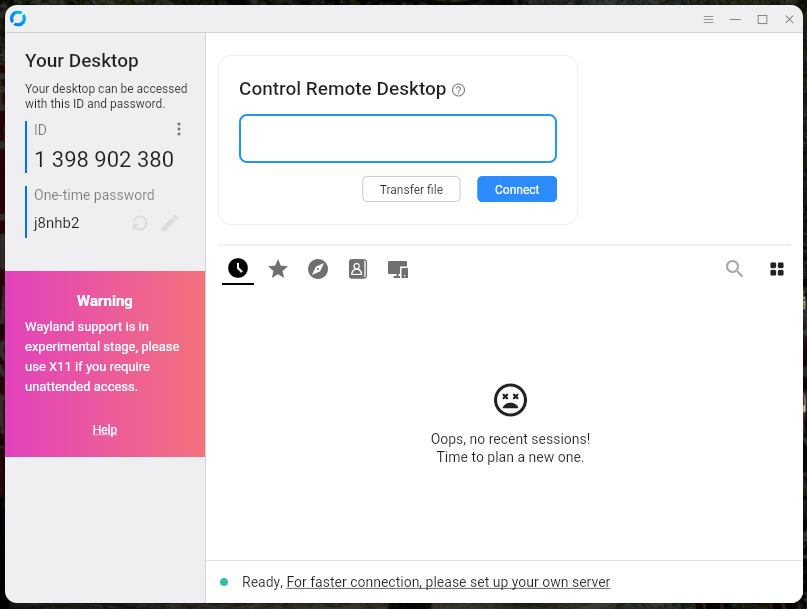
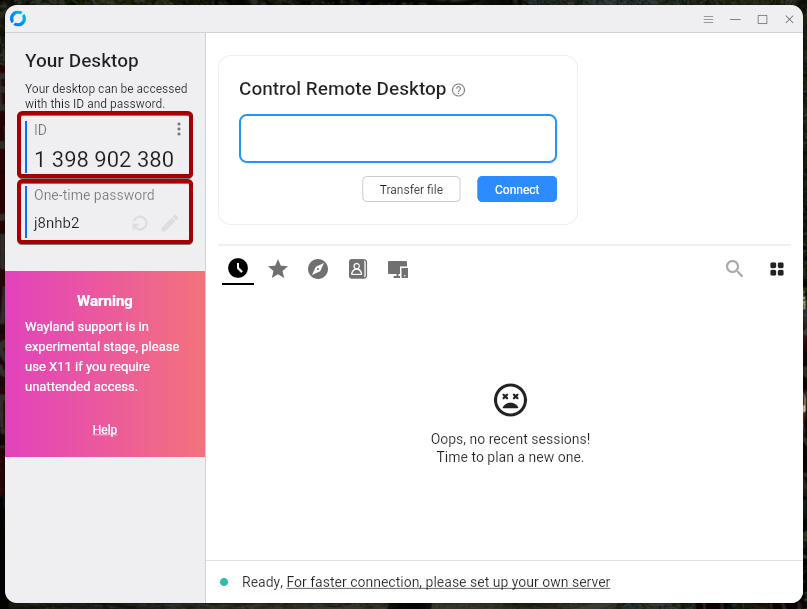
completed the rustdesk how to

Changed region(s): [[0.0, 0.156, 0.2478, 0.4056]]

diff --git a/docs/en/poweruser.md b/docs/en/poweruser.md
@@ -18,9 +18,7 @@ su -
 - "do you want to unmount" -> y
 - "Enter size for the first partition in MB" -> default..
 - do you want to encrypt the second partition? -> please choose
-- proceed anyway -> y
-
-TODO  
+- proceed anyway -> y 
 
 ## Update the Operating System  
 
@@ -31,15 +29,28 @@ mount -t nfs 192.168.200.1:/usb2-part1 /mnt
 dd if=/mnt/smb/debian-live* of=/dev/nvme0n1 status=progress 
 ```
 
-## Support by a Rustdesk Remote Session
+## Support via Rustdesk Remote Session
+
+### Establish a Remote Session
 1. Open the application **"Rustdesk"** by pressing **"Windows"-Key** and then start typing **"Rustdesk"**. 
-2. Now click the **"Rustdesk"-Icon**  
+2. Now click the **"Rustdesk"-Icon**.  
 ![Rustdesk00](../shared/images/poweruser/rustdesk/rustdesk00.png)
-3. A different way to start Rustdesk would be by opening the Applications Tab in the taskbar at the top and then click on **"Internet"** and **"Rustdesk"**  
+3. A different way to start Rustdesk would be by opening the Applications Tab in the taskbar at the top and then click on **"Internet"** and **"Rustdesk"**.  
 ![Rustdesk01](../shared/images/poweruser/rustdesk/rustdesk01.png)
 4. Now you will send the **"ID"** and the **"One-time Password"** which you can see on the left side to the person you want to receive Support from.  
 ![Rustdesk02](../shared/images/poweruser/rustdesk/rustdesk02.png)
-5. A small window might appear which shows that the person wants to connect to your Computer.  
+5. A small window might appear which shows that a device wants to connect to your Computer. Normally the connection gets automatically established. If not, click the **"Accept"** Button.  
 ![Rustdesk03](../shared/images/poweruser/rustdesk/rustdesk03.png)
-6. If its the first time someone connects to your Computer then you will have to select the screen which should be shared. Select the screen and then click **"Share"**
+6. If its the first time someone connects to your Computer then you will have to select the screen which should be shared. Select the screen, tick the box **"Remember this selection"** and then click **"Share"**.
 ![Rustdesk04](../shared/images/poweruser/rustdesk/rustdesk04.png)
+7. If you see this little icon in the top taskbar, then the connection is established.
+![Rustdesk05](../shared/images/poweruser/rustdesk/rustdesk05.png)
+
+### Stop the Remote Session
+1. Move your mouse over the **"Rustdesk"-Icon** in the left sidebar. Now two smaller windows should appear next to the sidebar.  
+2. Click on the window which shows the active connection.   
+![Rustdesk07](../shared/images/poweruser/rustdesk/rustdesk07.png)
+3. Now the **"Connection"-Window** should appear on the screen.
+4. Click **"Disconnect"** to end the remote session.
+![Rustdesk08](../shared/images/poweruser/rustdesk/rustdesk08.png)
+5. The small icon in the top taskbar ![Rustdesk09](../shared/images/poweruser/rustdesk/rustdesk09.png) should now be disappeared, which means the connection is closed for the remote device.

diff --git a/docs/de/poweruser.md b/docs/de/poweruser.md
@@ -12,3 +12,29 @@ TODO
 mount -t nfs 192.168.200.1:/usb2-part1 /mnt
 dd if=/mnt/smb/debian-live* of=/dev/nvme0n1 status=progress 
 ```
+
+## Support erhalten über eine Rustdesk-Remote-Sitzung
+
+### Eine Remote-Sitzung starten
+1. Öffne die Anwendung **"Rustdesk"**, indem du die **"Windows"-Taste** drückst und dann **"Rustdesk"** eingibst.  
+2. Klicken nun auf das **"Rustdesk"-Symbol**.  
+![Rustdesk00](../shared/images/poweruser/rustdesk/rustdesk00.png)  
+3. Eine andere Möglichkeit, Rustdesk zu starten, besteht darin, die Anwendungsliste in der oberen Taskleiste zu öffnen und dann auf **"Internet"** und **"Rustdesk"** zu klicken.  
+![Rustdesk01](../shared/images/poweruser/rustdesk/rustdesk01.png)  
+4. Nun sende die **"ID"** und das **"One-time Password"**, welche du auf der linken Seite siehst, an die Person, von der du Support erhalten möchtest.  
+![Rustdesk02](../shared/images/poweruser/rustdesk/rustdesk02.png)  
+5. Ein kleines Fenster kann erscheinen, welches zeigt, dass ein Gerät sich mit deinem Computer verbinden möchte. Normalerweise wird die Verbindung automatisch hergestellt. Falls nicht, klicke auf den **"Accept"**-Button.  
+![Rustdesk03](../shared/images/poweruser/rustdesk/rustdesk03.png)  
+6. Falls jemand das erste Mal eine Verbindung zu deinem Computer herstellt, musst du den Bildschirm auswählen, der freigegeben werden soll. Wähle nun den Bildschirm aus, setze das Häkchen bei **"Remember this selection"** und klicke auf **"Share"**.  
+![Rustdesk04](../shared/images/poweruser/rustdesk/rustdesk04.png)  
+7. Wenn du das kleine Symbol in der oberen Taskleiste siehst, ist die Verbindung hergestellt.  
+![Rustdesk05](../shared/images/poweruser/rustdesk/rustdesk05.png)  
+
+### Die Remote-Sitzung beenden
+1. Bewege die Maus über das **"Rustdesk"-Symbol** in der linken Seitenleiste. Nun sollten zwei kleinere Fenster neben der Seitenleiste erscheinen.  
+2. Klicke auf das Fenster, das die aktive Verbindung anzeigt.  
+![Rustdesk07](../shared/images/poweruser/rustdesk/rustdesk07.png)  
+3. Nun sollte das **"Verbindungsfenster"** auf dem Bildschirm erscheinen.  
+4. Klicke nun auf **"Disconnect"**, um die Remote-Sitzung zu beenden.  
+![Rustdesk08](../shared/images/poweruser/rustdesk/rustdesk08.png)  
+5. Das kleine Symbol in der oberen Taskleiste ![Rustdesk09](../shared/images/poweruser/rustdesk/rustdesk09.png) sollte nun verschwunden sein, was bedeutet, dass die Verbindung für das Remote-Gerät geschlossen wurde.

diff --git a/docs/it/poweruser.md b/docs/it/poweruser.md
@@ -12,3 +12,29 @@ TODO
 mount -t nfs 192.168.200.1:/usb2-part1 /mnt
 dd if=/mnt/smb/debian-live* of=/dev/nvme0n1 status=progress 
 ```
+
+## Supporto tramite Sessione Remota con Rustdesk
+
+### Avviare una Sessione Remota  
+1. Apri l'applicazione **"Rustdesk"** premendo il tasto **"Windows"** e iniziando a digitare **"Rustdesk"**.  
+2. Ora fai clic sull'icona **"Rustdesk"**.  
+![Rustdesk00](../shared/images/poweruser/rustdesk/rustdesk00.png)  
+3. Un altro modo per avviare Rustdesk è aprire la scheda Applicazioni nella barra delle applicazioni in alto e poi fare clic su **"Internet"** e **"Rustdesk"**.  
+![Rustdesk01](../shared/images/poweruser/rustdesk/rustdesk01.png)  
+4. Ora invia il tuo **"ID"** e la tua **"One-time Password"**, che puoi vedere sulla sinistra, alla persona da cui vuoi ricevere supporto.  
+![Rustdesk02](../shared/images/poweruser/rustdesk/rustdesk02.png)  
+5. Potrebbe apparire una piccola finestra che indica che un dispositivo vuole connettersi al tuo computer. Normalmente la connessione viene stabilita automaticamente. Se ciò non accade, fai clic sul pulsante **"Accept"**.  
+![Rustdesk03](../shared/images/poweruser/rustdesk/rustdesk03.png)  
+6. Se è la prima volta che qualcuno si connette al tuo computer, dovrai selezionare lo schermo da condividere. Seleziona lo schermo, spunta la casella **"Remember this selection"** e poi fai clic su **"Share"**.  
+![Rustdesk04](../shared/images/poweruser/rustdesk/rustdesk04.png)  
+7. Se vedi questa piccola icona nella barra delle applicazioni in alto, significa che la connessione è attiva.  
+![Rustdesk05](../shared/images/poweruser/rustdesk/rustdesk05.png)  
+
+### Terminare la Sessione Remota  
+1. Sposta il mouse sopra l'icona **"Rustdesk"** nella barra laterale sinistra. Ora dovrebbero apparire due piccole finestre accanto alla barra laterale.  
+2. Fai clic sulla finestra che mostra la connessione attiva.  
+![Rustdesk07](../shared/images/poweruser/rustdesk/rustdesk07.png)  
+3. Ora dovrebbe apparire sullo schermo la finestra **"Connessione"**.  
+4. Fai clic su **"Disconnect"** per terminare la sessione remota.  
+![Rustdesk08](../shared/images/poweruser/rustdesk/rustdesk08.png)  
+5. La piccola icona nella barra delle applicazioni in alto ![Rustdesk09](../shared/images/poweruser/rustdesk/rustdesk09.png) dovrebbe ora scomparire, il che significa che la connessione è stata chiusa per il dispositivo remoto.
